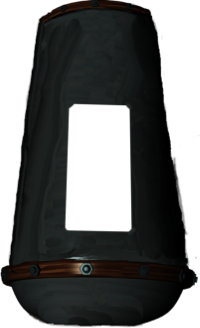
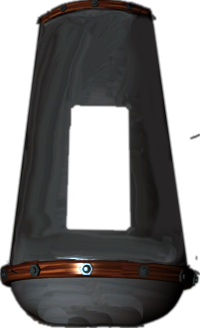
Add Row functionality implemented

diff --git a/src/Grid.js b/src/Grid.js
@@ -3,20 +3,25 @@
  */
 import ui.View as View;
 import src.Bomb as Bomb;
+import src.audio as audio;
 import animate;
+
+var SIZE = Bomb.size();
 
 var Grid = exports = Class(View, function(supr){
 
     this.init = function(opts){
         supr(this, 'init', [opts]);
 
-        var size = Bomb.size();
+        this._collisions = 0;
 
-        this._cols = Math.floor(this.style.width/size)
-        this._rows = Math.floor(this.style.height/size);
-        this._diff = this.style.width - this._cols*size;
+        this._cols = Math.floor(this.style.width/SIZE)
+        this._rows = Math.floor(this.style.height/SIZE);
+        this._diff = this.style.width - this._cols*SIZE;
 
         this._grid=[];
+
+        this._flip = false;
 
         for (var r=0; r < this._rows; r++){
 
@@ -24,13 +29,14 @@ var Grid = exports = Class(View, function(supr){
 
             for (var c=0; c < this._cols; c++){
                 if (r < this._rows/4) {
-                    this._attach(Bomb.obtain({superview:this}),r, c);
+                    this._attach(Bomb.obtain({
+                        superview:this
+                    }),r, c);
                 }else{
                     this._grid[r][c] = null
                 }
             }
         }
-
     };
 
     this.hasCollided = function(bomb){
@@ -48,44 +54,61 @@ var Grid = exports = Class(View, function(supr){
         });
     };
 
-
     this._collide = function(bomb){
         bomb.stopMoving();
+        this._collisions++;
 
         var shape = bomb.getBoundingShape();
-        var size = shape.radius * 2;
-        var row = Math.floor(shape.y / size);
-        var col = Math.floor((row % 2 ? shape.x - this._diff : shape.x) / size);
+        var row = Math.floor(shape.y / SIZE);
+        var col = Math.floor((this._isOdd(row)  ? shape.x - this._diff : shape.x) / SIZE);
+
+        if (col >= this._cols){
+            col--;
+            row++;
+        }else if (col < 0){
+            col++;
+            row++;
+        }
+
+        if (this._fetch(row,col)){
+            row++;
+        }
 
         //game ends if all rows are used up
         if (row >= this._rows){
             bomb.explode();
-            this._iterateGrid(function(bomb){
-                bomb.explode();
-            });
+            this._cleanup();
             this.emit('gameOver');
             return;
         }
+
         //a bomb is already in this position, this should not happen
-        else if(this._fetch(row,col)){
-            bomb.explode();
+        if(this._fetch(row,col)){
+            bomb.remove();
             return;
         }
 
-        this._attach(bomb, row, col, {animate:true});
+        this._attach(bomb, row, col, {animate:true, duration:25});
 
         var matching = [];
-        this._appendNeighbors(bomb, matching,true);
+        this._appendNeighbors(bomb, matching, true);
+
 
         if (matching.length >= 3) {
             matching.forEach(bind(this,function(bomb){
                 bomb.explode();
                 this._detach(bomb);
                 this.emit('incrementScore', 10);
+                this._collisions = 0;
             }));
         }
 
         this._dropStragglers();
+
+        if (this._collisions >= 3){
+            this._addRow();
+            this._collisions = 0;
+        }
 
     };
 
@@ -93,7 +116,7 @@ var Grid = exports = Class(View, function(supr){
         for (var r=this._rows-1; r >=0; r--) {
             for (var c = 0; c < this._cols; c++) {
                 if (this._grid[r][c]) {
-                    if (fn.call(this, this._grid[r][c])){
+                    if (fn.call(this, this._grid[r][c], r, c)){
                         return true;
                     };
                 }
@@ -104,16 +127,19 @@ var Grid = exports = Class(View, function(supr){
 
     this._attach = function(bomb,row,col,opt){
 
-        var size = Bomb.size();
         this._grid[row][col] = bomb;
 
         var style = {
-            x : col * size + (row % 2 ? this._diff : 0),
-            y : row * size
+            x : col * SIZE,
+            y : row * SIZE
         };
 
+        if (this._isOdd(row)){
+            style.x += this._diff;
+        }
+
         if (opt && opt.animate){
-            animate(bomb).now(style,50,animate.linear);
+            animate(bomb).now(style, opt.duration, animate.linear);
         }else{
            bomb.style.update(style);
         }
@@ -129,11 +155,11 @@ var Grid = exports = Class(View, function(supr){
     this._appendNeighbors = function(bomb,neighbors,matchingOnly){
         if (!neighbors.length || (neighbors.indexOf(bomb) < 0 && (!matchingOnly || bomb.matches(neighbors[0])))){
 
-                neighbors.push(bomb);
+            neighbors.push(bomb);
 
-                this._getNeighbors(bomb).forEach(bind(this,function(value){
-                    this._appendNeighbors(value,neighbors,matchingOnly);
-                }));
+            this._getNeighbors(bomb).forEach(bind(this,function(value){
+                this._appendNeighbors(value,neighbors,matchingOnly);
+            }));
         }
 
     };
@@ -142,7 +168,7 @@ var Grid = exports = Class(View, function(supr){
         if (!bomb) return [];
 
         var pos = bomb.pos;
-        var i = pos.r % 2 ? 1 : -1;
+        var i = this._isOdd(pos.r) ? 1 : -1;
 
         var neighbors = [
             this._fetch(pos.r, pos.c-1),
@@ -177,15 +203,52 @@ var Grid = exports = Class(View, function(supr){
                 var duration = height-bomb.style.y;
                 this._detach(bomb);
                 animate(bomb).now({y:height},duration,animate.easeIn).then(bind(this,function(){
+                    audio.play('ding');
                     bomb.remove();
                     this.emit('incrementScore', 30);
                 }));
             }
         });
 
-
     };
 
+    this._addRow = function(){
 
+        this._flip = !this._flip;
+
+        var gameOver = this._iterateGrid(function(bomb,row,col) {
+            if (row+1 >= this._rows){
+                this._cleanup();
+                this.emit('gameOver');
+                return true;
+            }
+            this._attach(bomb,row+1,col,{animate:true, duration:200});
+            this._grid[row][col] = null;
+        });
+
+        if (!gameOver){
+            for (var c=0; c < this._cols; c++){
+                var newBomb = Bomb.obtain({
+                    superview : this,
+                    x : c * SIZE,
+                    y: -SIZE
+                });
+
+                this._attach(newBomb, 0, c, {animate:true, duration:200});
+            }
+        }
+    };
+
+    this._cleanup = function(){
+        this._iterateGrid(function(bomb){
+            this._detach(bomb);
+            bomb.explode();
+        });
+    };
+
+    this._isOdd = function(row){
+        var oddRow = (row % 2 === 1);
+        return ((!this._flip && oddRow) || (this._flip && !oddRow));
+    };
 
 });

diff --git a/src/Launcher.js b/src/Launcher.js
@@ -14,6 +14,14 @@ var Launcher = exports = Class(View, function(supr){
 		
 	    supr(this, 'init', [opts]);
 
+		this.style.update({
+			width : 120,
+			height : 200,
+			anchorX : 60,
+			anchorY : 200
+		});
+
+
 		this.cannon = new ImageView({
 			superview : this,
 			width: 120,
@@ -24,18 +32,10 @@ var Launcher = exports = Class(View, function(supr){
 		});
 
 		var cStyle = this.cannon.style;
-    	this.style.update({
-    		width : cStyle.width,
-			height : cStyle.height,
-    		anchorX : cStyle.width/2,
-    		anchorY : cStyle.height
-    	});
 
 		this.bombs = [this._createBomb(), this._createBomb()];
 	    this.bombs[0].style.y -= 2*Bomb.size()
 	    this.bombs[1].style.y -= Bomb.size();
-			    
-
 	};
 
     this.rotate = function(point){

diff --git a/src/Application.js b/src/Application.js
@@ -10,7 +10,6 @@ import src.Game as Game;
 var baseWidth = 576,
     baseHeight = device.screen.height * (baseWidth / device.screen.width);
 
-
 var Application = exports = Class(GC.Application,function (){
 
   	this.initUI = function() {
@@ -39,7 +38,7 @@ var Application = exports = Class(GC.Application,function (){
 
   	this.launchUI = function() {
   		this.game.start();
-  	}		
+  	}
 
 
 });

diff --git a/src/audio.js b/src/audio.js
@@ -11,6 +11,9 @@ var audio = exports = new AudioManager({
         },
         explosion: {
             volume : 1
+        },
+        ding : {
+            volume : 0.8
         }
     }
 });
